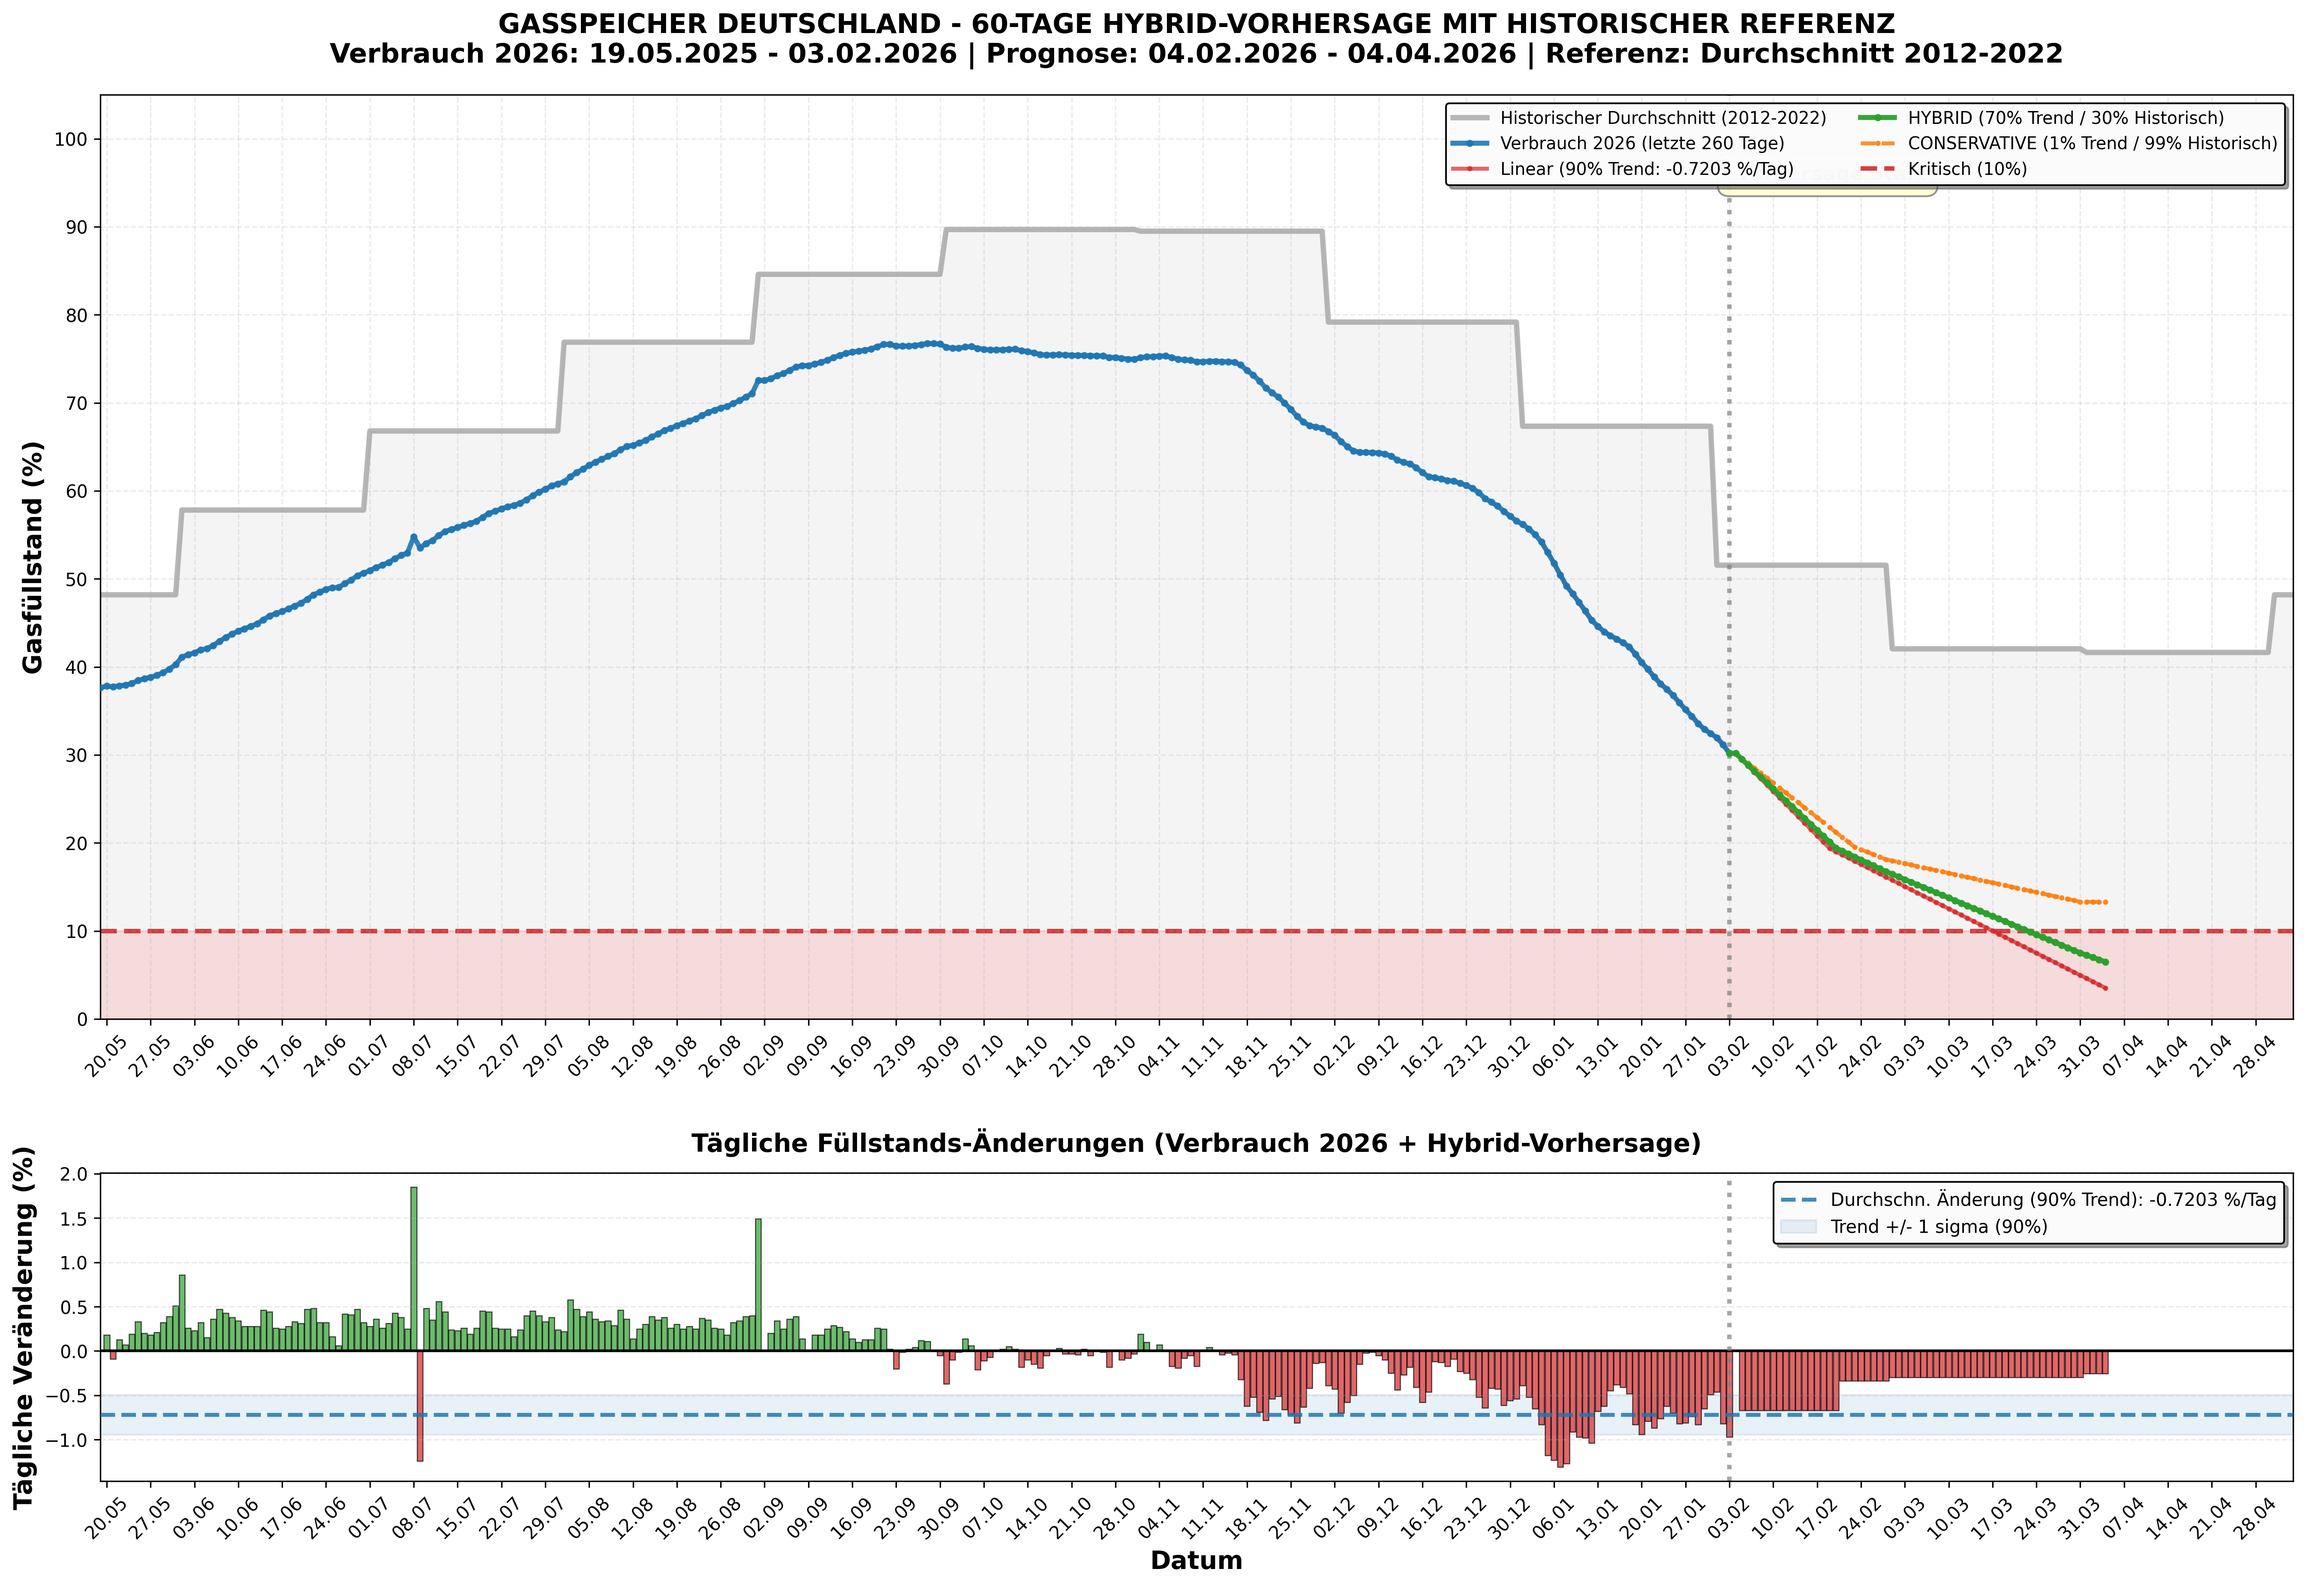
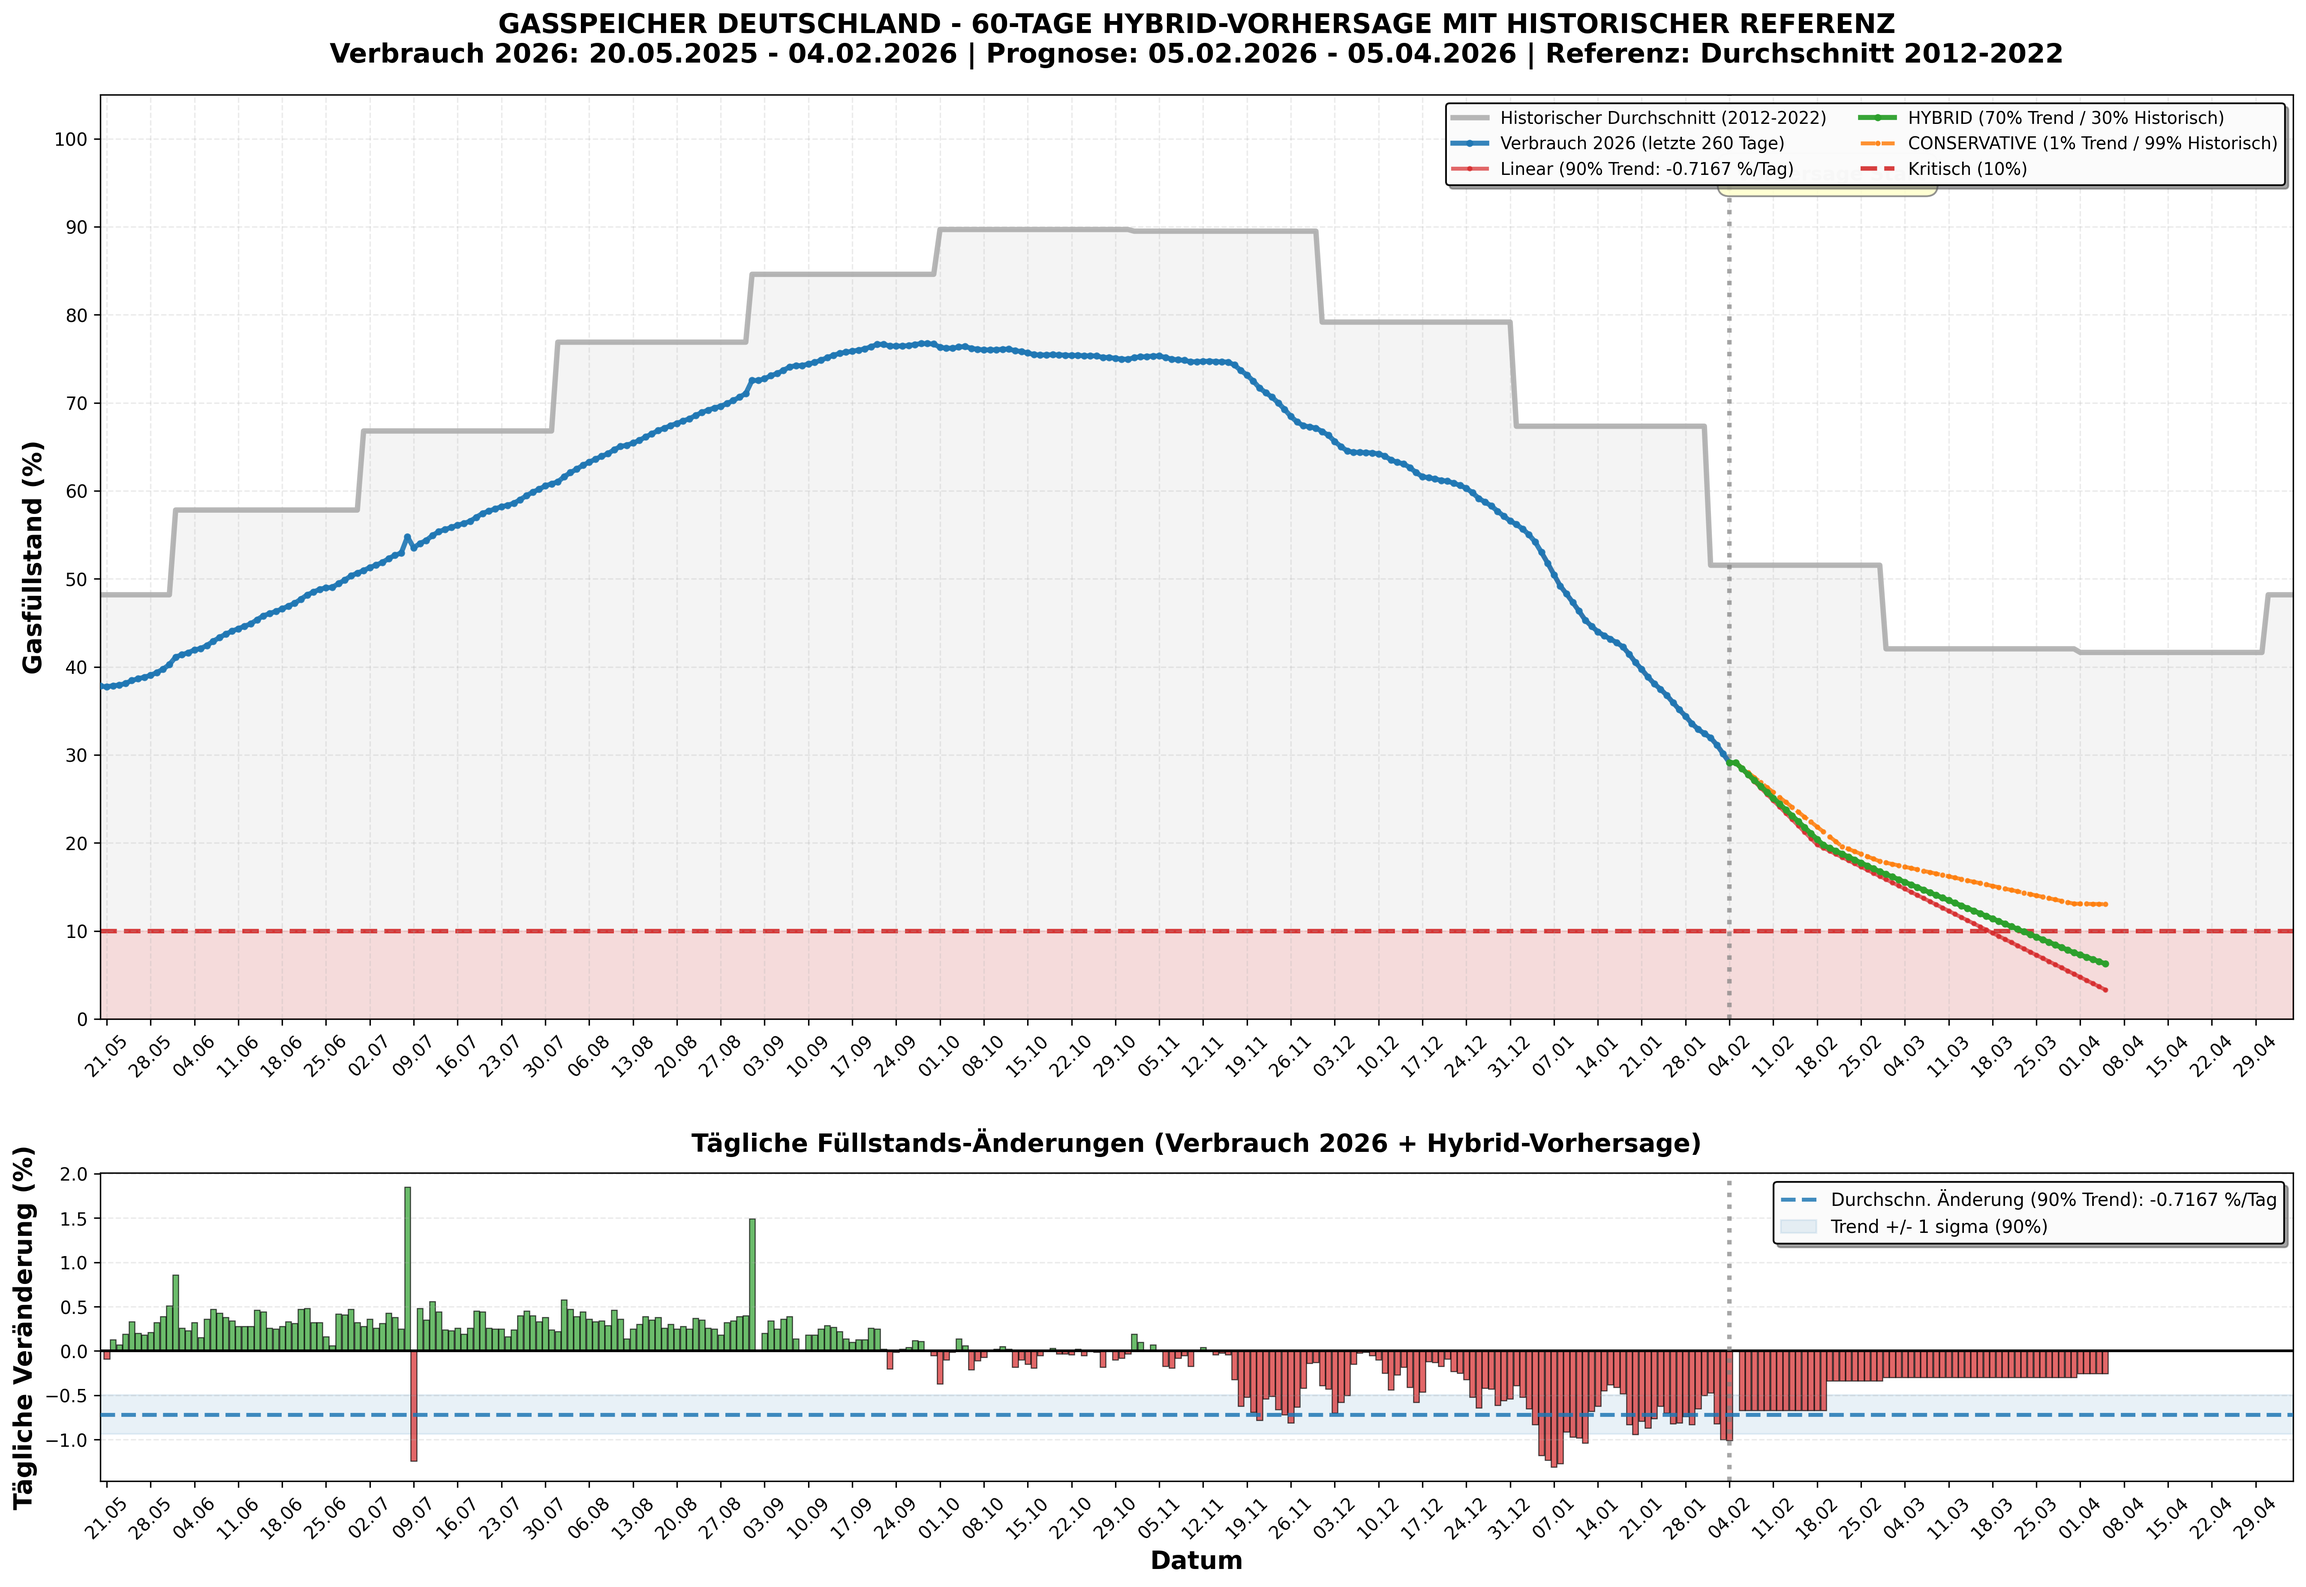
Update Gasspeicher-Report 2026-02-05 20:28

diff --git a/index.html b/index.html
@@ -3,10 +3,10 @@
 <head>
     <meta charset="UTF-8">
     <meta name="viewport" content="width=device-width, initial-scale=1.0">
-    <title>Energienotfall.de - Gasspeicher 30.2% | 03.02.2026</title>
+    <title>Energienotfall.de - Gasspeicher 29.1% | 05.02.2026</title>
 
     <!-- SEO Meta Tags -->
-    <meta name="description" content="Energienotfall.de: Erhöhte Aufmerksamkeit. Speicherstand unter Beobachtung. Füllstand 30.2%, Trend -0.72%/Tag. Prognose-Tiefpunkt: 6.5%. Privates Projekt · Keine offizielle Behördenseite">
+    <meta name="description" content="Energienotfall.de: Erhöhte Aufmerksamkeit. Speicherstand unter Beobachtung. Füllstand 29.1%, Trend -0.72%/Tag. Prognose-Tiefpunkt: 6.3%. Privates Projekt · Keine offizielle Behördenseite">
     <meta name="keywords" content="Gasspeicher, Deutschland, Füllstand, Gaspreis, Energiekrise, Gasversorgung, TTF, Erdgas, Speicherstand">
     <meta name="author" content="Energienotfall.de">
     <meta name="robots" content="index, follow">
@@ -14,15 +14,15 @@
     <!-- Open Graph (Facebook, LinkedIn) -->
     <meta property="og:type" content="website">
     <meta property="og:url" content="https://www.energienotfall.de/">
-    <meta property="og:title" content="Energienotfall.de - Gasspeicher 30.2% | 03.02.2026">
-    <meta property="og:description" content="Füllstand 30.2%, Trend -0.72%/Tag. Prognose-Tiefpunkt: 6.5% am 04.04.2026.">
+    <meta property="og:title" content="Energienotfall.de - Gasspeicher 29.1% | 05.02.2026">
+    <meta property="og:description" content="Füllstand 29.1%, Trend -0.72%/Tag. Prognose-Tiefpunkt: 6.3% am 05.04.2026.">
     <meta property="og:locale" content="de_DE">
     <meta property="og:site_name" content="Energienotfall.de">
 
     <!-- Twitter Card -->
     <meta name="twitter:card" content="summary_large_image">
-    <meta name="twitter:title" content="Energienotfall.de - Gasspeicher 30.2% | 03.02.2026">
-    <meta name="twitter:description" content="Gasspeicher 30.2%, Trend -0.72%/Tag. Tiefpunkt 6.5%.">
+    <meta name="twitter:title" content="Energienotfall.de - Gasspeicher 29.1% | 05.02.2026">
+    <meta name="twitter:description" content="Gasspeicher 29.1%, Trend -0.72%/Tag. Tiefpunkt 6.3%.">
 
     <!-- JSON-LD Structured Data -->
     <script type="application/ld+json">
@@ -33,7 +33,7 @@
         "description": "Alternative Ansicht der aktuellen Gasspeicher-Daten für Deutschland",
         "url": "https://www.energienotfall.de",
         "inLanguage": "de-DE",
-        "dateModified": "2026-02-03",
+        "dateModified": "2026-02-04",
         "publisher": {
             "@type": "Organization",
             "name": "Energienotfall.de"
@@ -435,8 +435,8 @@
 <body>
     <div class="container">
         <div class="header">
-            <h1>🔥 Der aktuelle Gasfüllstand in DE zeigt: 30.2%</h1>
-            <div class="subtitle">Privates Projekt · Keine offizielle Behördenseite | Stand: 03.02.2026</div>
+            <h1>🔥 Der aktuelle Gasfüllstand in DE zeigt: 29.1%</h1>
+            <div class="subtitle">Privates Projekt · Keine offizielle Behördenseite | Stand: 04.02.2026</div>
         </div>
 
         <!-- Signal Ampel -->
@@ -447,8 +447,8 @@
             <div class="signal-message" style="color: #f39c12; font-size: 1.3rem; font-weight: bold; margin-bottom: 0.5rem;">
                 Erhöhte Aufmerksamkeit. Speicherstand unter Beobachtung.
             </div>
-            <div style="font-size: 2.5rem; font-weight: bold;">30.2%</div>
-            <div style="color: #888;">Aktueller Füllstand (75.8 TWh)</div>
+            <div style="font-size: 2.5rem; font-weight: bold;">29.1%</div>
+            <div style="color: #888;">Aktueller Füllstand (73.1 TWh)</div>
         </div>
 
         <!-- Alert System -->
@@ -467,17 +467,17 @@
                     <div class="label">Täglicher Trend</div>
                 </div>
                 <div class="metric">
-                    <div class="value">42</div>
+                    <div class="value">41</div>
                     <div class="label">Tage Reichweite (aktuell)</div>
                     <div style="font-size: 0.75rem; color: #888; margin-top: 0.25rem;">
-                        ❄ Kälte: 28d | 🌡 Mild: 60d
+                        ❄ Kälte: 27d | 🌡 Mild: 58d
                     </div>
                 </div>
                 <div class="metric danger">
-                    <div class="value">6.5%</div>
+                    <div class="value">6.3%</div>
                     <div class="label">Prognose-Tiefpunkt</div>
                     <div style="font-size: 0.75rem; color: #888; margin-top: 0.25rem;">
-                        04.04.2026
+                        05.04.2026
                     </div>
                 </div>
             </div>
@@ -488,23 +488,23 @@
                 <div class="import-flow">
                     <div class="import-item">
                         <span class="country">🇳🇴 Norwegen</span>
-                        <span class="value">1,373</span>
+                        <span class="value">1,360</span>
                     </div>
                     <div class="import-item">
                         <span class="country">🇳🇱 Niederlande</span>
-                        <span class="value">829</span>
+                        <span class="value">881</span>
                     </div>
                     <div class="import-item">
                         <span class="country">🇧🇪 Belgien</span>
-                        <span class="value">707</span>
+                        <span class="value">705</span>
                     </div>
                     <div class="import-item">
                         <span class="country">🚢 LNG</span>
-                        <span class="value">88</span>
+                        <span class="value">90</span>
                     </div>
                     <div class="import-item import-total">
                         <span class="country"><strong>Σ Gesamt</strong></span>
-                        <span class="value">2,997</span>
+                        <span class="value">3,036</span>
                     </div>
                 </div>
             </div>
@@ -514,15 +514,15 @@
                 <h2>❄ Wetter-Szenarien (30 Tage)</h2>
                 <div class="scenario-row">
                     <span class="scenario-label">Kältewelle ❄</span>
-                    <span class="scenario-value scenario-cold">8.6%</span>
+                    <span class="scenario-value scenario-cold">8.2%</span>
                 </div>
                 <div class="scenario-row">
                     <span class="scenario-label">Normal 🌤</span>
-                    <span class="scenario-value scenario-normal">14.0%</span>
+                    <span class="scenario-value scenario-normal">13.7%</span>
                 </div>
                 <div class="scenario-row">
                     <span class="scenario-label">Milde Witterung 🌡</span>
-                    <span class="scenario-value scenario-mild">17.3%</span>
+                    <span class="scenario-value scenario-mild">16.8%</span>
                 </div>
                 <div style="margin-top: 1rem; font-size: 0.8rem; color: #666;">
                     Kältewelle: +50% Verbrauch | Mild: -30% Verbrauch
@@ -534,7 +534,7 @@
                 <h2>⚡ Spark Spread</h2>
                 <div class="spark-container">
                     <div class="spark-item">
-                        <div class="value">33.5</div>
+                        <div class="value">33.7</div>
                         <div class="label">Gas (EUR/MWh)</div>
                     </div>
                     <div class="spark-item">
@@ -542,7 +542,7 @@
                         <div class="label">Strom (EUR/MWh)</div>
                     </div>
                     <div class="spark-item">
-                        <div class="value spark-profitable">+56.4</div>
+                        <div class="value spark-profitable">+56.0</div>
                         <div class="label">Spread (EUR/MWh)</div>
                     </div>
                 </div>
@@ -558,9 +558,9 @@
         <!-- Forecast Chart -->
         <div class="chart-container">
             <h2 style="margin-bottom: 1rem;">📈 Vorhersage-Diagramm</h2>
-            <img src="Gasspeicher_Vorhersage_2026-02-05.png" alt="Gasspeicher Vorhersage bis 04.04.2026" />
+            <img src="Gasspeicher_Vorhersage_2026-02-05.png" alt="Gasspeicher Vorhersage bis 05.04.2026" />
             <div style="margin-top: 0.75rem; font-size: 0.8rem; color: #666;">
-                Vorhersage: 60 Tage | Tiefpunkt: 6.5% am 04.04.2026
+                Vorhersage: 60 Tage | Tiefpunkt: 6.3% am 05.04.2026
             </div>
         </div>
 
